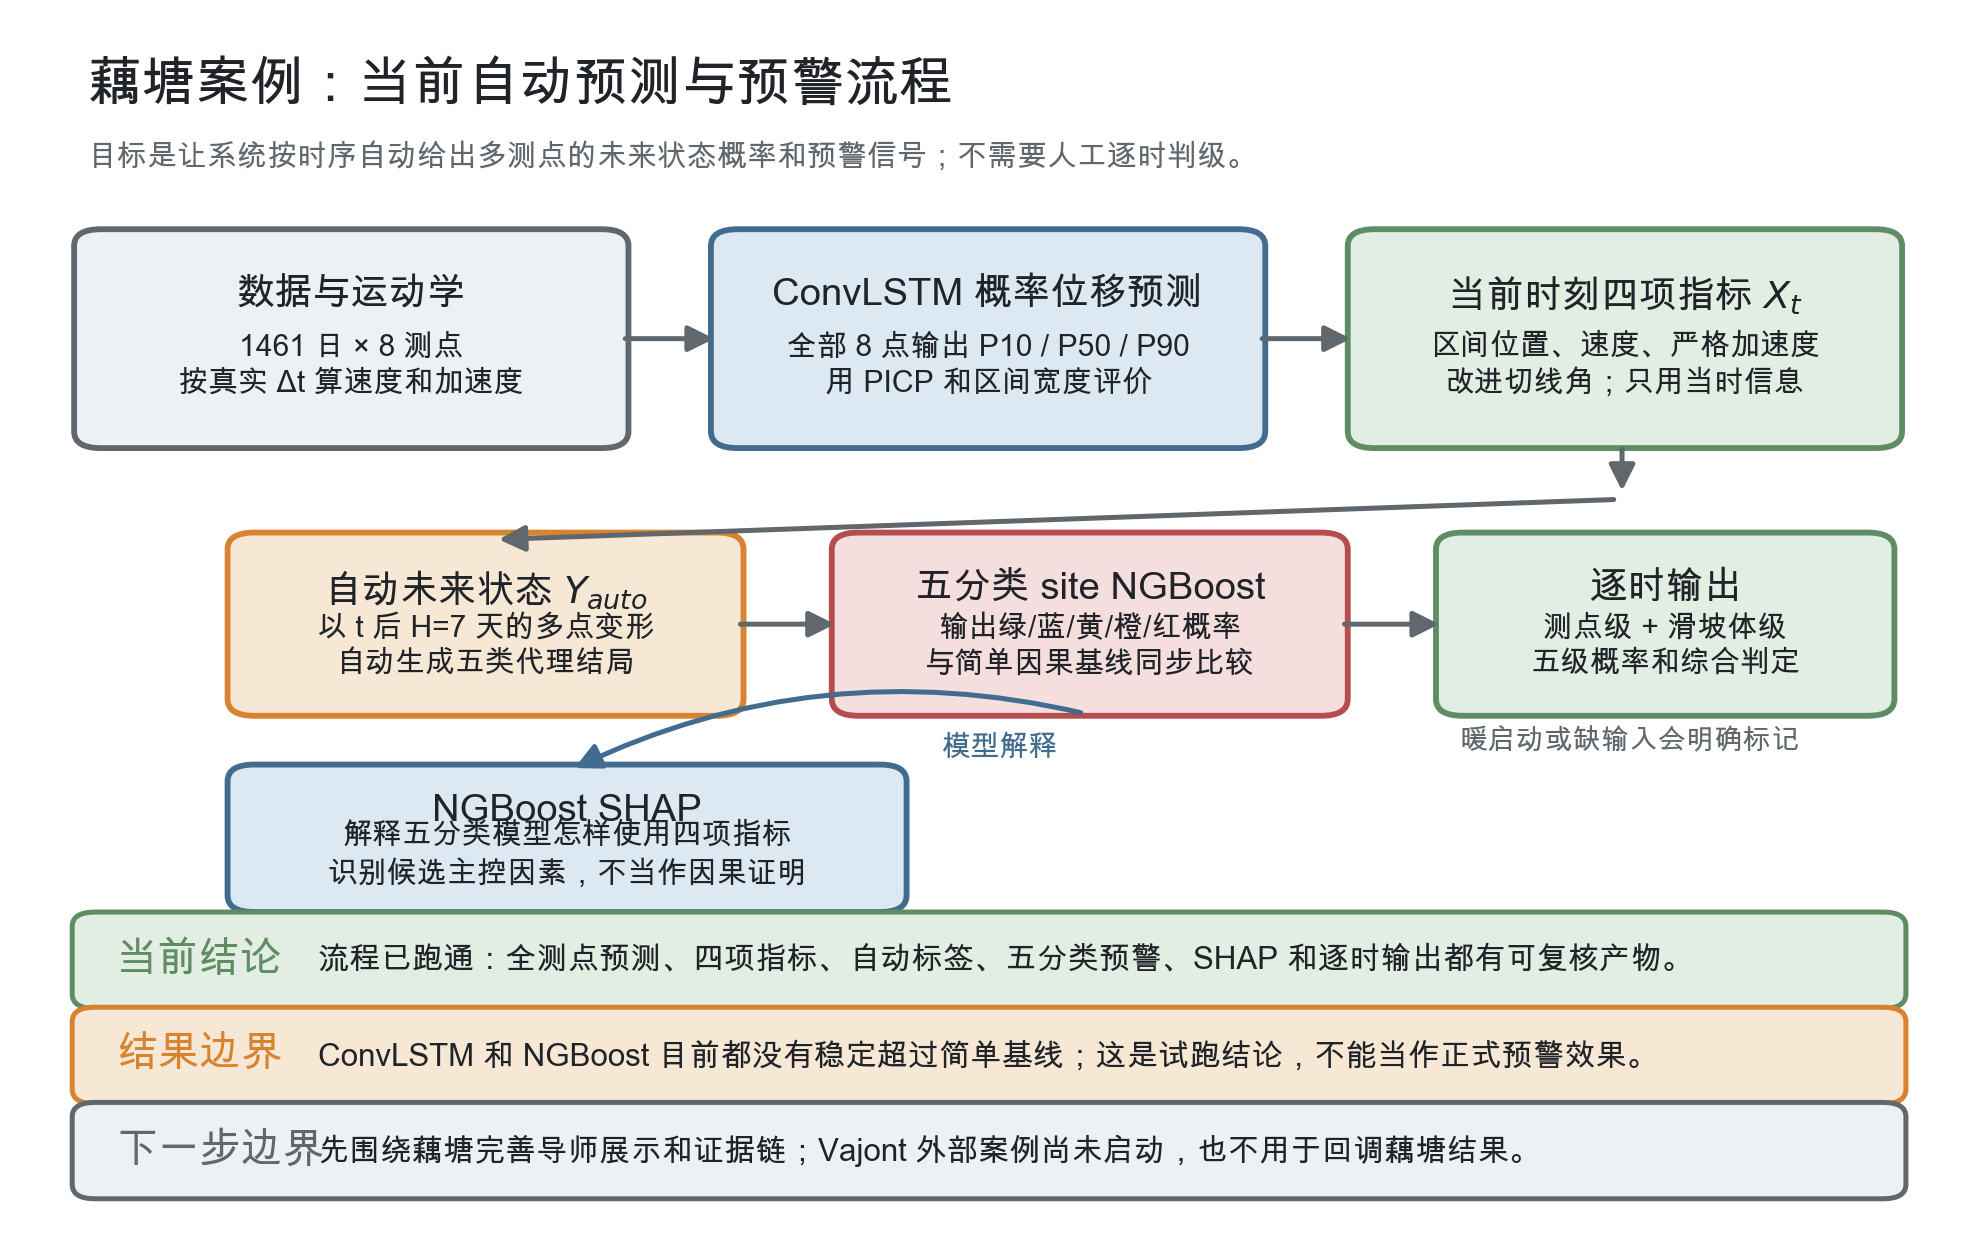
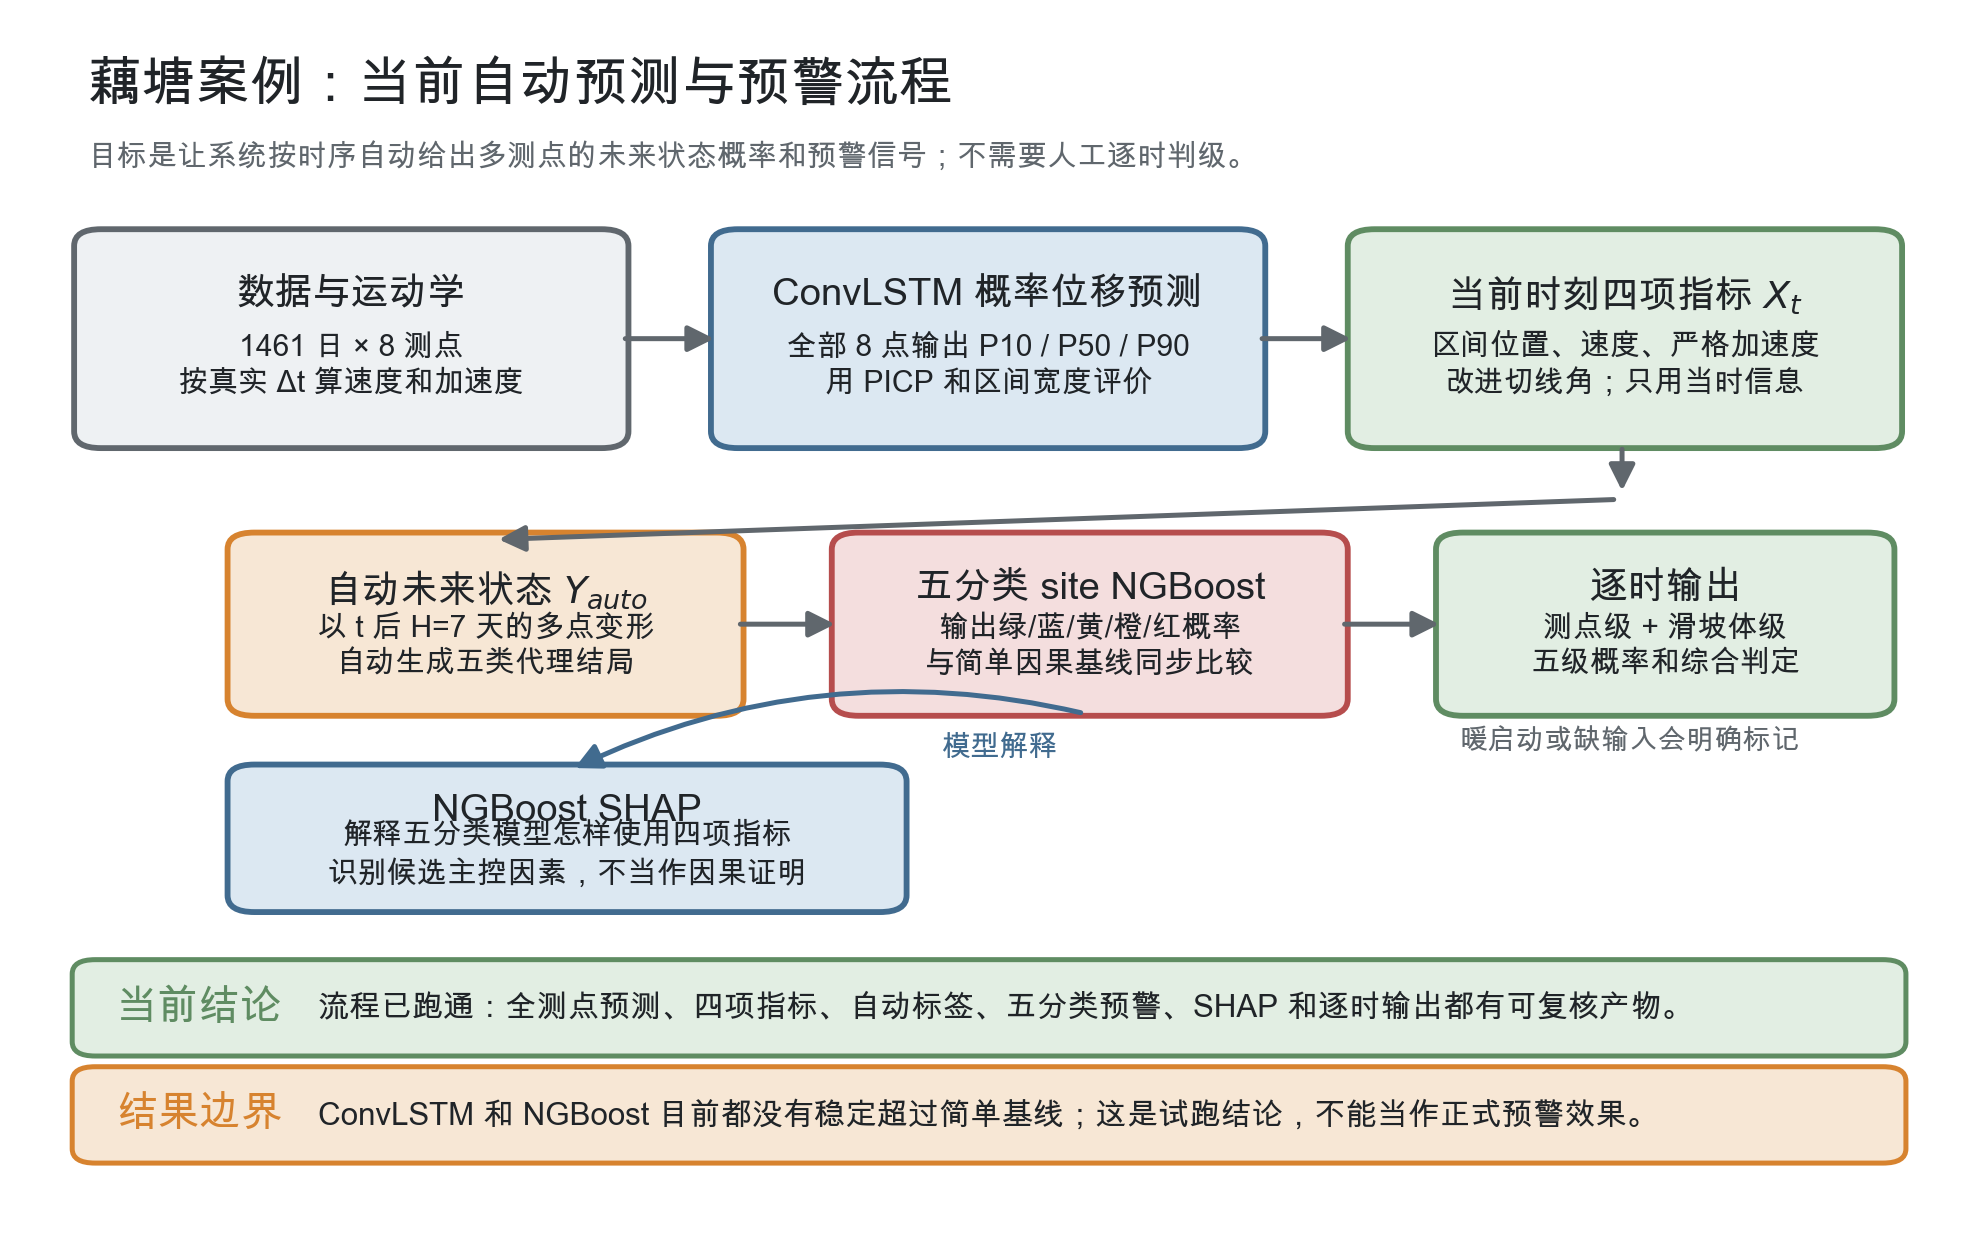
docs: make progress report direct

Changed region(s): [[0.0308, 0.7182, 0.9869, 0.968]]

diff --git a/paper/process_report.tex b/paper/process_report.tex
@@ -11,18 +11,13 @@
 \usepackage{hyperref}
 
 \definecolor{reportblue}{HTML}{365F91}
-\definecolor{reportgreen}{HTML}{5E8C61}
-\definecolor{reportorange}{HTML}{D9822B}
-\definecolor{reportred}{HTML}{B64B4B}
-\definecolor{reportgray}{HTML}{5F6368}
-\definecolor{reportlight}{HTML}{F3F5F7}
 
 \hypersetup{
   colorlinks=true,
   linkcolor=reportblue,
   urlcolor=reportblue,
   pdfauthor={韦承谦},
-  pdftitle={藕塘滑坡智能概率预测与预警阶段汇报}
+  pdftitle={藕塘滑坡智能概率预测与预警：藕塘案例阶段结果}
 }
 
 \captionsetup{font=small,labelfont=bf,labelsep=quad}
@@ -32,19 +27,13 @@
 
 \pagestyle{fancy}
 \fancyhf{}
-\fancyhead[L]{藕塘滑坡阶段汇报}
+\fancyhead[L]{藕塘滑坡阶段结果}
 \fancyhead[R]{ConvLSTM--NGBoost--SHAP}
 \fancyfoot[C]{\thepage}
 \setlength{\headheight}{15pt}
 
-\newcommand{\statusbox}[2]{%
-  \noindent\colorbox{reportlight}{%
-    \parbox{0.96\linewidth}{\textbf{#1}\quad #2}%
-  }%
-}
-
-\title{\heiti\Large 藕塘滑坡智能概率预测与预警\\阶段汇报\\[0.55em]
-\large ConvLSTM--NGBoost--SHAP 藕塘案例}
+\title{\heiti\Large 藕塘滑坡智能概率预测与预警\\[0.55em]
+\large ConvLSTM--NGBoost--SHAP 藕塘案例阶段结果}
 \author{韦承谦}
 \date{2026年8月31日}
 
@@ -157,7 +146,5 @@ $\geq10A_0$。这是当前项目的自动化实现，不是论文直接给出的
 514 日中有 114 日满足跨区整体确认，其余 400 日只保留局部异常，避免单点高值直接代表
 整个滑坡体。当前流程已经完整，但 ConvLSTM 和 NGBoost 都没有稳定超过简单基线。
 \normalsize
-
-\statusbox{想请您重点确认}{未来 7 日自动标签的定义是否合适，以及四项指标和多测点综合方式是否符合您的设想。确认后再整理藕塘结果，并开展 Vajont 外部验证。}
 
 \end{document}

diff --git a/paper/process_report_figures.py b/paper/process_report_figures.py
@@ -247,7 +247,7 @@ def build_process_overview() -> None:
     bands = [
         (
             0.03,
-            0.185,
+            0.145,
             0.94,
             0.065,
             "当前结论",
@@ -257,23 +257,13 @@ def build_process_overview() -> None:
         ),
         (
             0.03,
-            0.105,
+            0.055,
             0.94,
             0.065,
             "结果边界",
             "ConvLSTM 和 NGBoost 目前都没有稳定超过简单基线；这是试跑结论，不能当作正式预警效果。",
             COLORS["orange_light"],
             COLORS["orange"],
-        ),
-        (
-            0.03,
-            0.025,
-            0.94,
-            0.065,
-            "下一步边界",
-            "先围绕藕塘完善导师展示和证据链；Vajont 外部案例尚未启动，也不用于回调藕塘结果。",
-            COLORS["gray_light"],
-            COLORS["gray"],
         ),
     ]
     for x, y0, w, h, label, text, facecolor, edgecolor in bands:

diff --git a/docs/progress.md b/docs/progress.md
@@ -146,6 +146,8 @@ SHAP、v4、memory/residual 负结果或 advisor 包，也未读取 Vajont。为
 - 输出：重写 `paper/process_report.tex`，同步更新流程图、四指标热图和 `paper/README.md`，
   生成 6 页 `paper/build/process_report.pdf`。报告以图为主，包括 8 个测点全时段概率预测、
   区间评价、五分类比较、逐时结果、NGBoost SHAP 和全部测点四指标结果。
+- 表达：正文和流程图只直接陈述当前方法、结果与限制，删除第三人称的汇报说明、请示性措辞
+  和后续工作安排。
 - 结论：藕塘流程已经接通，但结果不能写成模型已经有效。ConvLSTM 跨时期表现不稳定，
   NGBoost 在当前评价段明显落后于 lag-7 状态持续基线；报告如实保留这两个负结果。
 - 局限与下一步：H=7 仍是代理标签，不是真实灾害等级；目前缺少原始 GNSS 复核材料和现场
